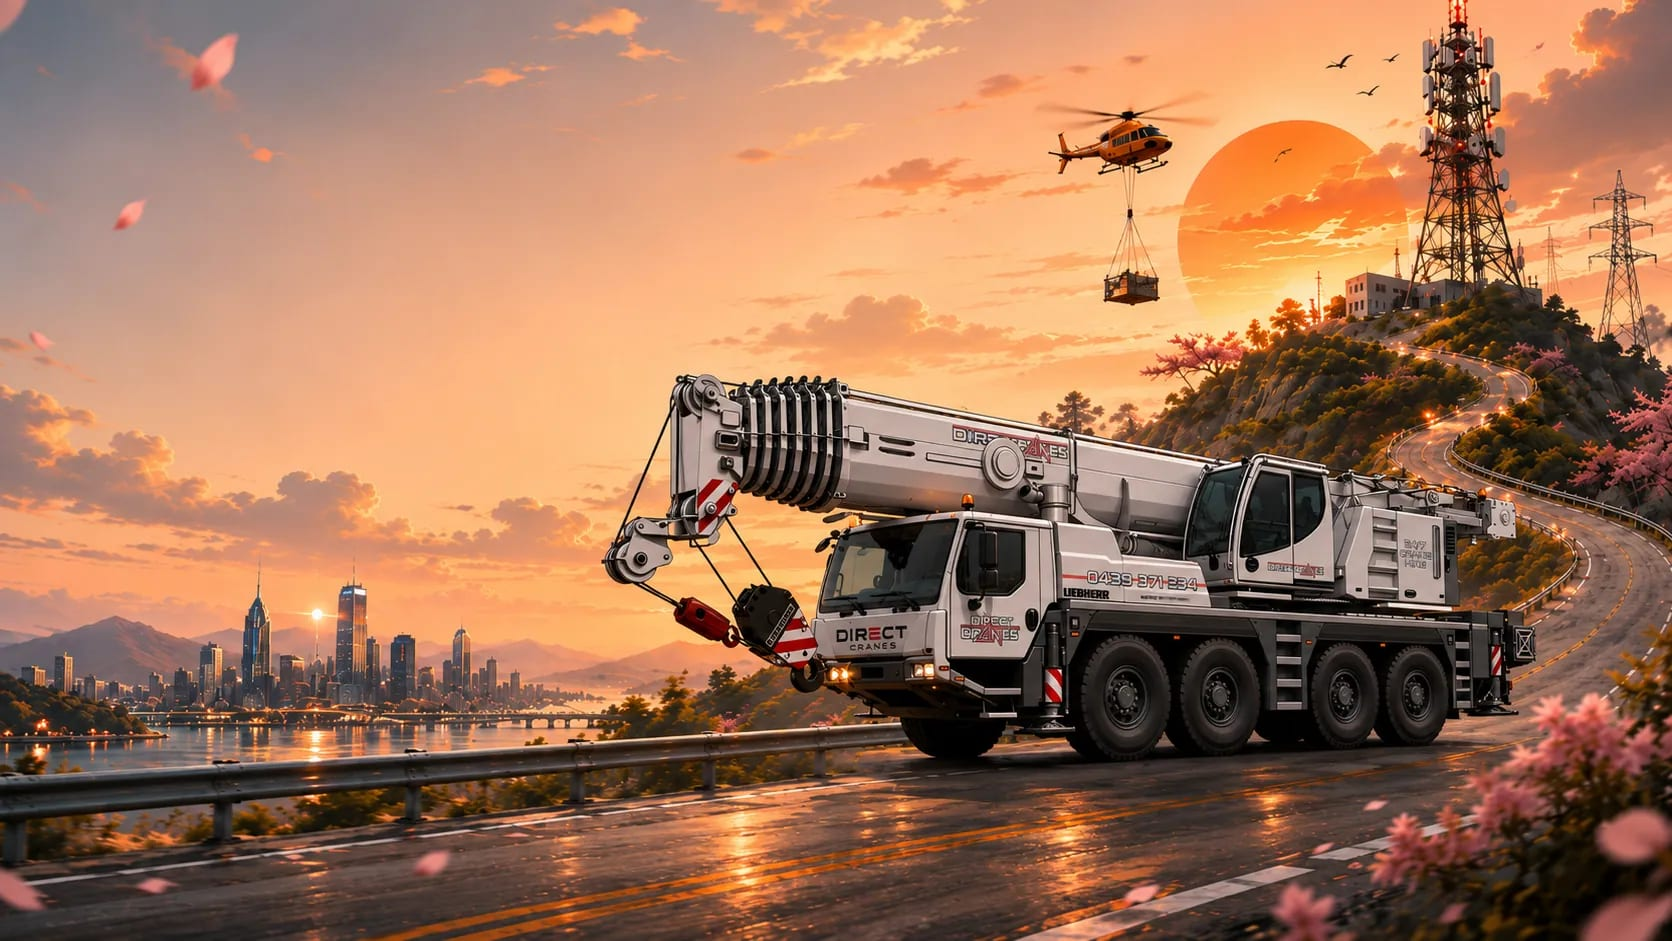
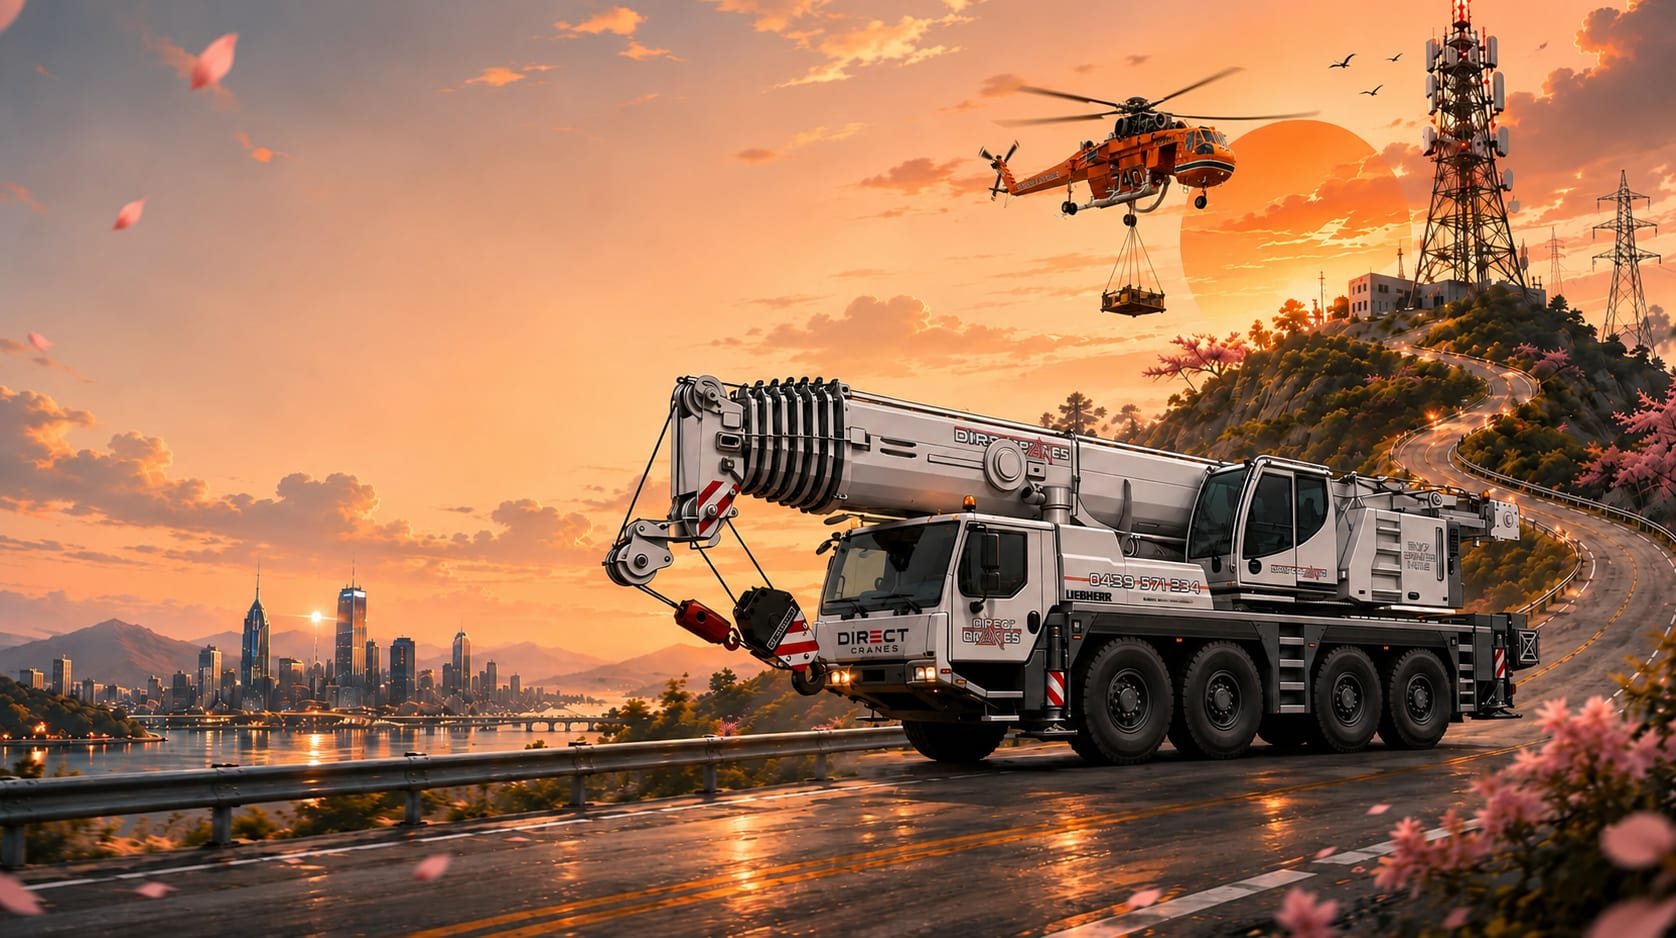
Home hero: updated sunset illustration with Direct Cranes fleet
Swap the home hero to the new illustration (Direct Cranes all-terrain
on the highway, orange sky crane, telecom tower) — desktop + portrait
mobile crop, lighter overlays, regenerated og-image.

diff --git a/frontend/src/components/site/Hero.jsx b/frontend/src/components/site/Hero.jsx
@@ -11,16 +11,16 @@ export default function Hero() {
       {/* Illustration background + black transparency overlay (portrait art on mobile) */}
       <div className="absolute inset-0 z-0" data-testid="hero-bg">
         <picture>
-          <source media="(max-width: 640px)" srcSet="/images/sky%20crane/sky-crane-hero-mobile.jpg" />
+          <source media="(max-width: 640px)" srcSet="/images/hero%20bg%20mobile/hero-bg-mobile.jpg" />
           <img
-            src="/images/sky%20crane/sky-crane-hero.jpg"
-            alt="Sky crane heavy-lift helicopter in flight"
+            src="/images/hero%20bg%20desktop/hero-bg.jpg"
+            alt="Direct Cranes all-terrain crane on a coastal highway at sunset with a sky crane and telecom tower"
             className="h-full w-full object-cover object-center"
             fetchpriority="high"
           />
         </picture>
-        <div className="absolute inset-0 bg-gradient-to-t from-black/75 via-black/20 to-black/30" />
-        <div className="absolute inset-0 bg-gradient-to-r from-black/60 via-black/25 to-black/5 sm:to-transparent" />
+        <div className="absolute inset-0 bg-gradient-to-t from-black/80 via-black/25 to-black/35" />
+        <div className="absolute inset-0 bg-gradient-to-r from-black/70 via-black/30 to-black/5 sm:to-black/10" />
       </div>
 
       <div className="relative z-10 mx-auto flex min-h-[calc(100vh-8rem)] max-w-[1600px] flex-col justify-center px-5 pb-14 sm:px-10">
